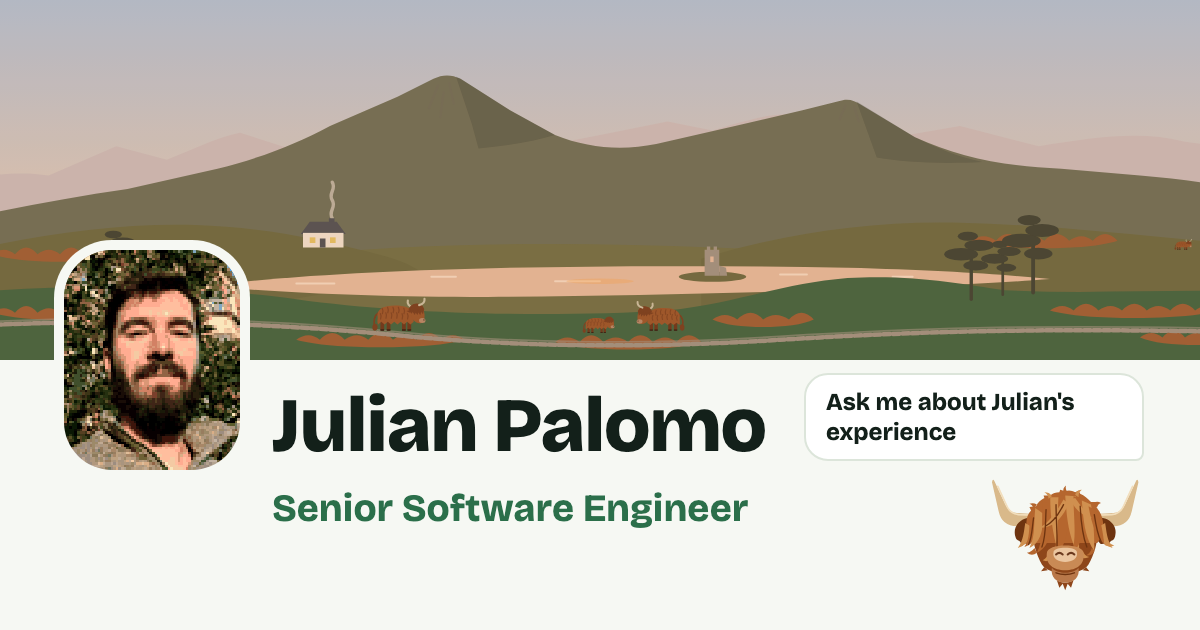
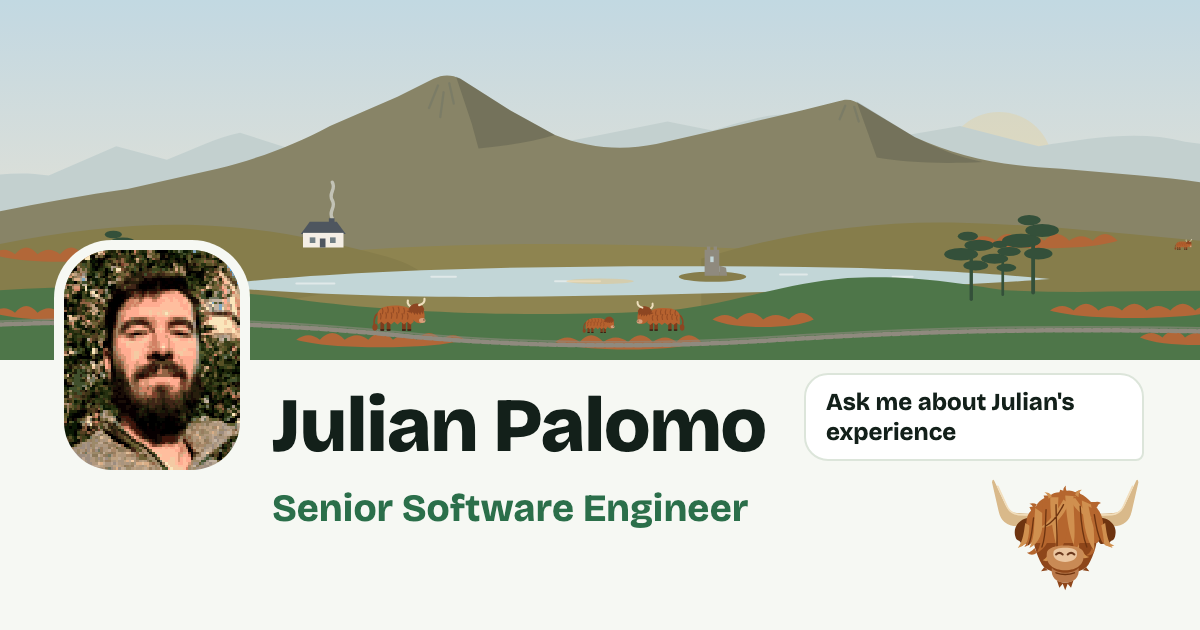
brighten the preview card to a warm autumn afternoon

Changed region(s): [[0.0, 0.0, 1.0, 0.3317], [0.2158, 0.4222, 0.8633, 0.4825], [0.2467, 0.3619, 0.3083, 0.3921]]

diff --git a/scripts/og/main.tsx b/scripts/og/main.tsx
@@ -22,9 +22,9 @@ import type { SkyState } from "../../src/lib/scene/sky-state";
 
 // A fixed day in the middle of autumn, so the image is the same every run.
 const DAY = Date.UTC(2026, 9, 15);
-// Golden hour: the first afternoon minute the sun is 1° or lower over Glasgow,
-// where the sky is at its most golden (the table in DESIGN.md section 7).
-const AT = goldenMinute();
+// A warm autumn afternoon: the first minute the sun sinks to 8° over Glasgow
+// (17:10), low enough to warm the light, high enough to keep the sky bright.
+const AT = afternoonMinute();
 const SKY: SkyState = {
   season: "autumn",
   at: new Date(AT),
@@ -35,12 +35,12 @@ const SKY: SkyState = {
   haar: false,
 };
 
-function goldenMinute(): number {
+function afternoonMinute(): number {
   for (let minute = 12 * 60; minute < 21 * 60; minute++) {
     const at = DAY + minute * 60_000;
-    if (glasgowElevation(at) <= 1) return at;
+    if (glasgowElevation(at) <= 8) return at;
   }
-  throw new Error("No golden hour found on the card's day");
+  throw new Error("The sun never sinks to 8° on the card's day");
 }
 
 /** A language's preview card: the glen, the portrait, the name and role, and the cow asking. */

diff --git a/src/lib/i18n/es.ts b/src/lib/i18n/es.ts
@@ -13,7 +13,7 @@ export const es: Messages = {
   portraitAlt: "Retrato en pixel art de Julián Palomo",
   ogBubble: "Pregúntame por la experiencia de Julián",
   ogImageAlt:
-    "Retrato en pixel art de Julián Palomo sobre un valle de las Highlands a la hora dorada, con una vaca de las Highlands que te invita a preguntar por su experiencia",
+    "Retrato en pixel art de Julián Palomo sobre un valle de las Highlands en una tarde de otoño, con una vaca de las Highlands que te invita a preguntar por su experiencia",
   metaDescription:
     "Pregunta por la experiencia de Julián Palomo. Las respuestas salen solo de datos que él ha confirmado, con sus fuentes.",
 

diff --git a/src/lib/i18n/en.ts b/src/lib/i18n/en.ts
@@ -19,7 +19,7 @@ export const en = {
   ogBubble: "Ask me about Julian's experience",
   // The link preview image (public/og/), for screen readers on LinkedIn and others.
   ogImageAlt:
-    "Julian Palomo's pixel-art portrait over a Highland glen at golden hour, with a Highland cow asking you to ask about his experience",
+    "Julian Palomo's pixel-art portrait over a Highland glen on an autumn afternoon, with a Highland cow asking you to ask about his experience",
   metaDescription:
     "Ask about Julian Palomo's experience. Answers come only from facts he has confirmed, with their sources.",
 

diff --git a/DESIGN.md b/DESIGN.md
@@ -667,7 +667,8 @@ centred and the background left exactly as it is: no blur, no fade.
 
 - **The link preview** (`og:image`) is a 1200 × 630 card per language,
   `public/og/en.png` and `public/og/es.png`. It shows the landscape, still, on
-  an autumn evening at golden hour with a clear sky and the herd; the
+  a warm autumn afternoon (the sun low, at 8°, at 17:10 on 15 October) with a
+  clear sky and the herd; the
   portrait with its ring; the name and the role from `src/lib/site.ts`; and
   the assistant cow with a speech bubble: "Ask me about Julian's experience"
   ("Pregúntame por la experiencia de Julián"). Light theme only: previews
